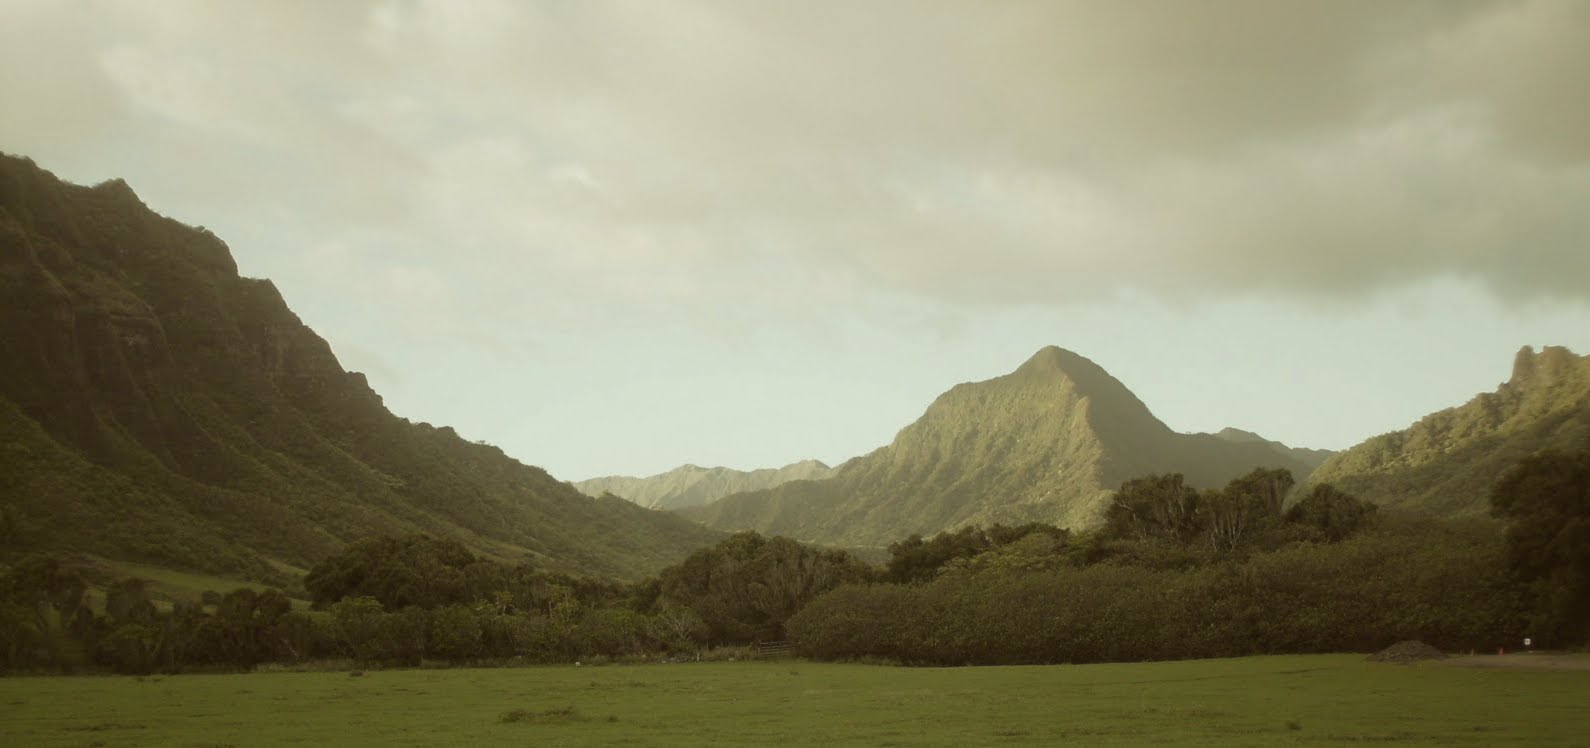
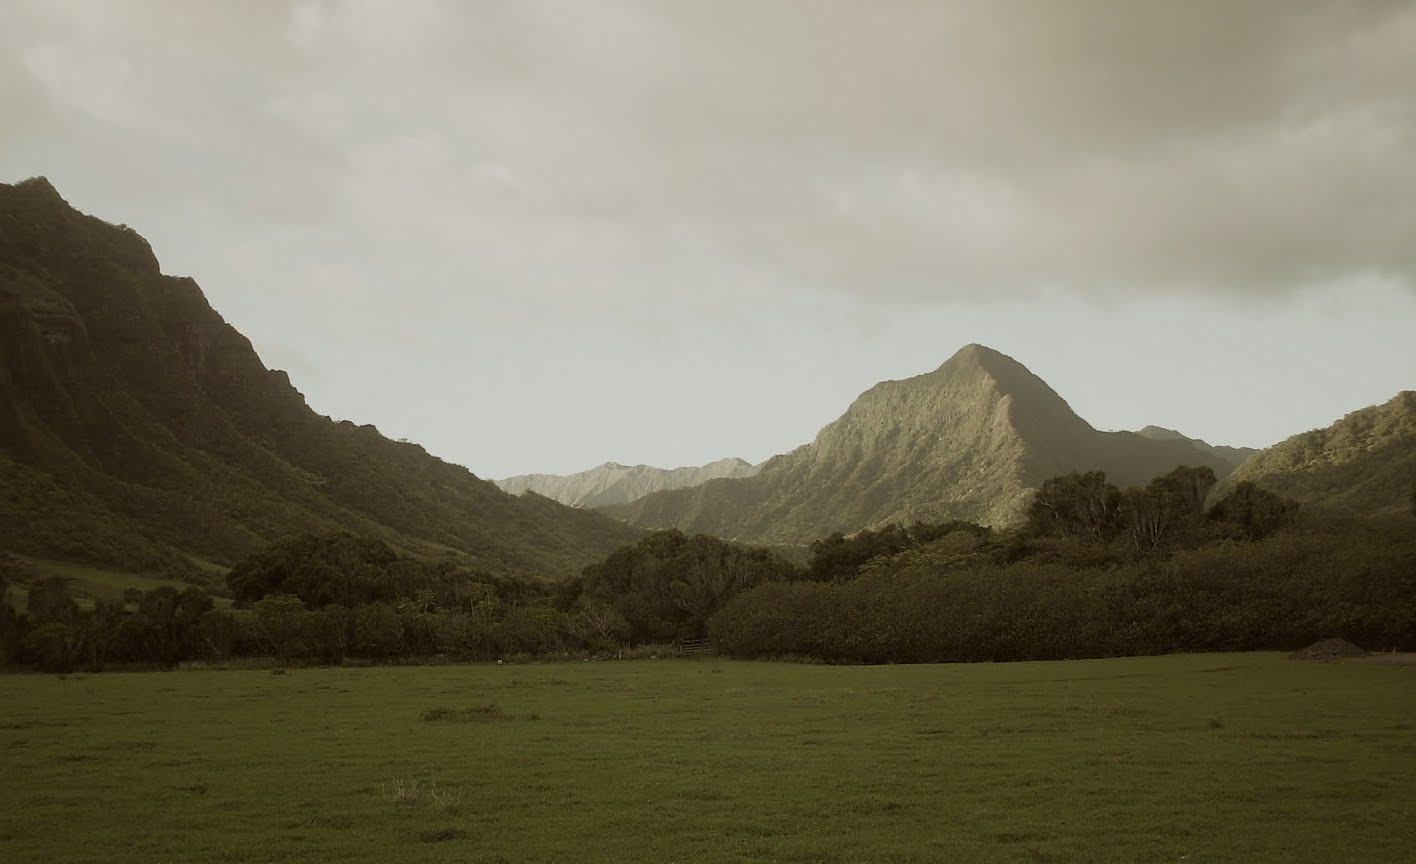
Footer changes.

diff --git a/css/main.css b/css/main.css
@@ -114,18 +114,16 @@ li.project img {
 
 section.outro {
 	z-index: 3;
-	height: 65%;
 	background: url('../img/oahu.jpg') no-repeat;
 	background-size: cover;
+	background-position: fixed;
+	height: 100%;
 }
 
 div.outro-text {
 	text-align: center;
 	color: black;
 	/* Center */
-	margin: auto;
-	left: 0;
-	right: 0;
 	padding-top: 10px;
 }
 
@@ -252,9 +250,10 @@ i.fliph {
 	color: white;
 	left: 0;
 	right: 0;
-	bottom: 0;	
 	text-align: center;
 	margin-bottom: 10px;
+	margin-top: 10px;
+	padding-top: 10px;
 	font-size: 13px;
 }
 

diff --git a/main.html b/main.html
@@ -95,7 +95,7 @@
 
     </section>
 
-    <section class="outro over-intro" data-type="background" data-speed="7">
+    <section class="outro over-intro" data-type="backgrounds" data-speed="5">
       <div class="outro-text">
         <h3>About</h3>
         <div class="divider"></div>
